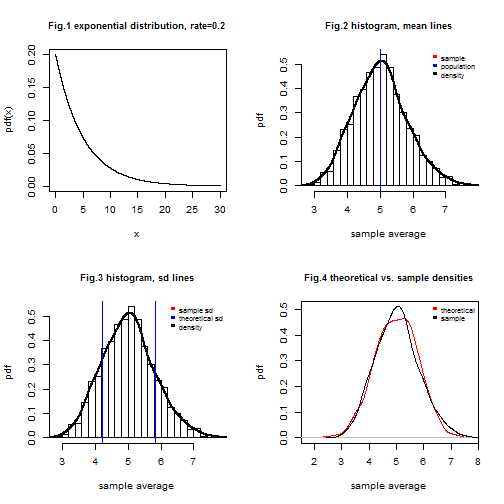
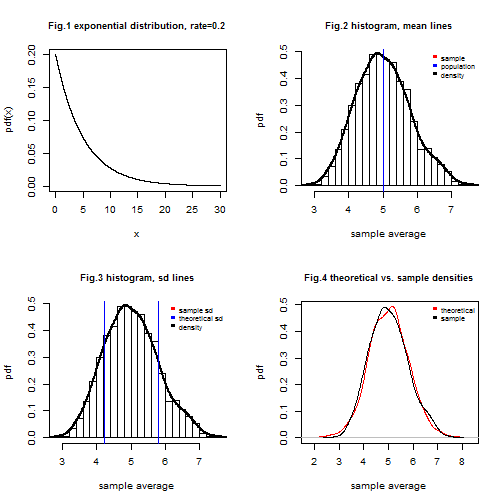
duplicate row removed in the ToothGrowth data set

diff --git a/stat_infer_project.html b/stat_infer_project.html
@@ -220,11 +220,11 @@ hr {
 
 <p>Now, the sample average distribution is to be created by sampling the exponential distribution. Each time, 40 exponentials will be sampled and the average of them will be taken to obtain a sample for the sample average distribution. A total of 1000 samplings will be carried out.</p>
 
-<p>The sample average distribution is expected to be centered around the mean of the original exponential population with a mean of \[\frac{1}{\lambda}=\frac{1}{0.2}=5\] The mean of the sample average distribution is 5.0271264 which is very close to the expected mean. This closeness can also be observed in the Fig.2. The sample average distribution mean and the exponentially distributed population mean are very near to each other, i.e. the red vertical line and the blue vertical line are almost overlapping.</p>
+<p>The sample average distribution is expected to be centered around the mean of the original exponential population with a mean of \[\frac{1}{\lambda}=\frac{1}{0.2}=5\] The mean of the sample average distribution is 5.0217322 which is very close to the expected mean. This closeness can also be observed in the Fig.2. The sample average distribution mean and the exponentially distributed population mean are very near to each other, i.e. the red vertical line and the blue vertical line are almost overlapping.</p>
 
-<p>In the Fig. 3, the points one sample standard deviation away from the sample mean are shown with red vertical lines. The points one theoretical standard deviation away from the sample mean are shown with blue vertical lines. They are almost overlapping. The closeness of the standard deviations observed in the Fig. 3 can be proven using numerical values of the variances as well. The theoretical variance of the sample average distribution is given by \[\frac{\sigma^{2}}{n}=\frac{\frac{1}{\lambda^{2}}}{n}\] The numerical value of the theoretical variance is 0.625. The variance of the sample average distribution is 0.631142. They are close to each other.</p>
+<p>In the Fig. 3, the points one sample standard deviation away from the sample mean are shown with red vertical lines. The points one theoretical standard deviation away from the sample mean are shown with blue vertical lines. They are almost overlapping. The closeness of the standard deviations observed in the Fig. 3 can be proven using numerical values of the variances as well. The theoretical variance of the sample average distribution is given by \[\frac{\sigma^{2}}{n}=\frac{\frac{1}{\lambda^{2}}}{n}\] The numerical value of the theoretical variance is 0.625. The variance of the sample average distribution is 0.6151753. They are close to each other.</p>
 
[2 lines of base64/hex data omitted]
 
 <p>The histogram and the density estimate are similar to a normal distribution. The central limit theorem states that the sample average distribution is similar to a normal distribution if the sample size is big enough. Here, the sample average distribution looks like a normal distribution to the extent permitted by the sample size being equal to 40. As the sample size increases, the sample average distribution will look like a normal distribution more and more.</p>
 
@@ -234,27 +234,27 @@ hr {
 
 <p>In this part, the ToothGrowth data in the R datasets package will be analysed. The data will be explored and summed up first. Then, the effect of supplementaries and the dose on the tooth growth will be examined using confidence intervals and hypothesis tests.</p>
 
-<p>The summary and the structure of the data set are obtained.</p>
+<p>After the duplicate rows are removed, the summary and the structure of the data set are obtained.</p>
 
 <pre><code>##       len        supp         dose      
-##  Min.   : 4.20   OJ:30   Min.   :0.500  
-##  1st Qu.:13.07   VC:30   1st Qu.:0.500  
-##  Median :19.25           Median :1.000  
-##  Mean   :18.81           Mean   :1.167  
-##  3rd Qu.:25.27           3rd Qu.:2.000  
+##  Min.   : 4.20   OJ:28   Min.   :0.500  
+##  1st Qu.:14.05   VC:27   1st Qu.:0.500  
+##  Median :20.00           Median :1.000  
+##  Mean   :19.05           Mean   :1.182  
+##  3rd Qu.:25.35           3rd Qu.:2.000  
 ##  Max.   :33.90           Max.   :2.000
 </code></pre>
 
-<pre><code>## &#39;data.frame&#39;:    60 obs. of  3 variables:
-##  $ len : num  4.2 11.5 7.3 5.8 6.4 10 11.2 11.2 5.2 7 ...
+<pre><code>## &#39;data.frame&#39;:    55 obs. of  3 variables:
+##  $ len : num  4.2 11.5 7.3 5.8 6.4 10 11.2 5.2 7 16.5 ...
 ##  $ supp: Factor w/ 2 levels &quot;OJ&quot;,&quot;VC&quot;: 2 2 2 2 2 2 2 2 2 2 ...
-##  $ dose: num  0.5 0.5 0.5 0.5 0.5 0.5 0.5 0.5 0.5 0.5 ...
+##  $ dose: num  0.5 0.5 0.5 0.5 0.5 0.5 0.5 0.5 0.5 1 ...
 </code></pre>
 
 <p>The unique dose values are 0.5, 1, 2. To have a quick overview 
 of the correlations in the data, exploratory box plots are created.</p>
 
[2 lines of base64/hex data omitted]
 
 <p>The boxplot in the Fig.5 suggests that the median tooth length for the OJ supp is 
 greater than that for the VC supp. However, the VC supp has a wider range of tooth length. The boxplot in the Fig. 6 indicates that as the dose increases, the tooth length increases too.</p>
@@ -265,16 +265,16 @@ greater than that for the VC supp. However, the VC supp has a wider range of too
 ##  Welch Two Sample t-test
 ## 
 ## data:  len_OJ and len_VC
-## t = 1.9153, df = 55.309, p-value = 0.06063
+## t = 1.781, df = 47.907, p-value = 0.08126
 ## alternative hypothesis: true difference in means is not equal to 0
 ## 95 percent confidence interval:
-##  -0.1710156  7.5710156
+##  -0.4732938  7.8103308
 ## sample estimates:
 ## mean of x mean of y 
-##  20.66333  16.96333
+##  20.85000  17.18148
 </code></pre>
 
-<p>The null hypothesis and the alternative hypothesis of the two-sided t test for the supp groups are as follows: \[H_{0}: \text{true difference in means is equal to zero.}\]  \[H_{a}: \text{true difference in means is not equal to zero.}\] The p-value of the two-sided t test is 0.0606345. This p-value is greater than 0.05. Then, the alternative hypothesis is rejected. The two-sided t test states that the mean lengths of the OJ supp group and VC supp group are not significantly different from each other. Hence, it is concluded that the supp type does not have a significant effect on the tooth length.</p>
+<p>The null hypothesis and the alternative hypothesis of the two-sided t test for the supp groups are as follows: \[H_{0}: \text{true difference in means is equal to zero.}\]  \[H_{a}: \text{true difference in means is not equal to zero.}\] The p-value of the two-sided t test is 0.0812592. This p-value is greater than 0.05. Then, the alternative hypothesis is rejected. The two-sided t test states that the mean lengths of the OJ supp group and VC supp group are not significantly different from each other. Hence, it is concluded that the supp type does not have a significant effect on the tooth length.</p>
 
 <p>Now, the effect of the dose on the tooth length is to be examined. First, dose 1.0 and dose 0.5 are to be compared to each other to determine if the mean tooth length differs between these two doses.</p>
 
@@ -282,16 +282,16 @@ greater than that for the VC supp. However, the VC supp has a wider range of too
 ##  Welch Two Sample t-test
 ## 
 ## data:  len_1 and len_05
-## t = 6.4766, df = 37.986, p-value = 6.342e-08
+## t = 6.0799, df = 33.939, p-value = 3.416e-07
 ## alternative hypothesis: true difference in means is greater than 0
 ## 95 percent confidence interval:
-##  6.753323      Inf
+##  6.805623      Inf
 ## sample estimates:
 ## mean of x mean of y 
-##    19.735    10.605
+##  20.05000  10.62222
 </code></pre>
 
-<p>The null hypothesis and the alternative hypothesis of the one-sided t test for the dose 1.0 and dose 0.5 groups are as follows: \[H_{0}: \text{true difference in means is equal to zero.}\]  \[H_{a}: \text{true difference in means is greater than zero.}\] The p-value of the two-sided t test is \(6.3415036 &times; 10<sup>-8</sup>\). This p-value is significantly smaller than 0.05. Hence, the null hypothesis is rejected. The dose 1.0 mean length is significantly greater than the dose 0.5 mean length.</p>
+<p>The null hypothesis and the alternative hypothesis of the one-sided t test for the dose 1.0 and dose 0.5 groups are as follows: \[H_{0}: \text{true difference in means is equal to zero.}\]  \[H_{a}: \text{true difference in means is greater than zero.}\] The p-value of the two-sided t test is \(3.4161029 &times; 10<sup>-7</sup>\). This p-value is significantly smaller than 0.05. Hence, the null hypothesis is rejected. The dose 1.0 mean length is significantly greater than the dose 0.5 mean length.</p>
 
 <p>Now, dose 2.0 and dose 1.0 are to be compared to each other to determine if the mean tooth length differs between these two doses.</p>
 
@@ -299,20 +299,22 @@ greater than that for the VC supp. However, the VC supp has a wider range of too
 ##  Welch Two Sample t-test
 ## 
 ## data:  len_2 and len_1
-## t = 4.9005, df = 37.101, p-value = 9.532e-06
+## t = 4.3299, df = 33.467, p-value = 6.391e-05
 ## alternative hypothesis: true difference in means is greater than 0
 ## 95 percent confidence interval:
-##  4.17387     Inf
+##  3.676641      Inf
 ## sample estimates:
 ## mean of x mean of y 
-##    26.100    19.735
+##  26.08421  20.05000
 </code></pre>
 
-<p>The null hypothesis and the alternative hypothesis of the one-sided t test for the dose 2.0 and dose 1.0 groups are as follows: \[H_{0}: \text{true difference in means is equal to zero.}\]  \[H_{a}: \text{true difference in means is greater than zero.}\] The p-value of the two-sided t test is \(9.5321476 &times; 10<sup>-6</sup>\). This p-value is significantly smaller than 0.05. Hence, the null hypothesis is rejected. The dose 2.0 mean length is significantly greater than the dose 1.0 mean length.</p>
+<p>The null hypothesis and the alternative hypothesis of the one-sided t test for the dose 2.0 and dose 1.0 groups are as follows: \[H_{0}: \text{true difference in means is equal to zero.}\]  \[H_{a}: \text{true difference in means is greater than zero.}\] The p-value of the two-sided t test is \(6.3907414 &times; 10<sup>-5</sup>\). This p-value is significantly smaller than 0.05. Hence, the null hypothesis is rejected. The dose 2.0 mean length is significantly greater than the dose 1.0 mean length.</p>
 
 <p>Hence, the t tests conclude that the dose factor has a significant effect on the tooth length. Specifically, as the dose increases, the mean tooth length increases too.</p>
 
 <h3>Appendix</h3>
+
+<p>The R code which is used to prepare this report is documented in this appendix.</p>
 
 <pre><code class="r"># x values for the pdf f(x)
 x &lt;- seq(0, 30, length.out=50000)
@@ -378,35 +380,36 @@ points(the_density, type=&quot;l&quot;, col=&quot;black&quot;)
 legend(&quot;topright&quot;, legend=c(&quot;theoretical&quot;, &quot;sample&quot;), 
        col=c(&quot;red&quot;, &quot;black&quot;), pch=15, cex = the_cex, bty=&quot;n&quot;)
 title(&quot;Fig.4 theoretical vs. sample densities&quot;, cex.main=main_cex)
-summary(ToothGrowth) # data summary
-str(ToothGrowth) # data structure
+library(dplyr) # load the package dplyr
+data_set &lt;- distinct(ToothGrowth) # remove duplicate rows
+summary(data_set) # data summary
+str(data_set) # data structure
 # boxplots for checking correlations among length, dose and supp
-with(ToothGrowth,{
+with(data_set,{
      par(mfrow=c(1,2))
      boxplot(len ~ supp, xlab=&quot;supp&quot;, ylab=&quot;length&quot;, main=&quot;Fig.5 Variation of length
              with respect to supp&quot;, cex.main=0.7)
      boxplot(len ~ dose, xlab=&quot;dose&quot;, ylab=&quot;length&quot;, main=&quot;Fig.6 Variation of length
              with respect to dose&quot;, cex.main=0.7)
      })
-library(dplyr) # load the package dplyr
 # OJ supp group is created
-group_OJ &lt;- filter(ToothGrowth, supp == &quot;OJ&quot;)
+group_OJ &lt;- filter(data_set, supp == &quot;OJ&quot;)
 # VC supp group is created
-group_VC &lt;- filter(ToothGrowth, supp == &quot;VC&quot;)
+group_VC &lt;- filter(data_set, supp == &quot;VC&quot;)
 len_OJ &lt;- group_OJ$len # OJ group lengths
 len_VC &lt;- group_VC$len # VC group lengths
 # two-sided t test is applied
 t_test_supp &lt;- t.test(len_OJ, len_VC, alternative=&quot;two.sided&quot;, paired=FALSE,
                       var.equal=FALSE)
 t_test_supp
-group_05 &lt;- filter(ToothGrowth, dose==0.5) # dose 0.5 group
-group_1 &lt;- filter(ToothGrowth, dose==1.0) # dose 1.0 group
+group_05 &lt;- filter(data_set, dose==0.5) # dose 0.5 group
+group_1 &lt;- filter(data_set, dose==1.0) # dose 1.0 group
 len_05 &lt;- group_05$len # 0.5 group lengths
 len_1 &lt;- group_1$len # 1.0 group lengths
 # one-sided t test is applied
 t_test_dose &lt;- t.test(len_1, len_05, alternative=&quot;greater&quot;, paired=FALSE, var.equal=FALSE)
 t_test_dose
-group_2 &lt;- filter(ToothGrowth, dose==2.0) # dose 2.0 group
+group_2 &lt;- filter(data_set, dose==2.0) # dose 2.0 group
 len_2 &lt;- group_2$len # 2.0 group lengths
 # one-sided t test applied
 t_test_dose2 &lt;- t.test(len_2, len_1, alternative=&quot;greater&quot;, paired=FALSE, var.equal=FALSE)

diff --git a/stat_infer_project.md b/stat_infer_project.md
@@ -18,9 +18,9 @@ Now, the sample average distribution is to be created by sampling the exponentia
 
 
 
-The sample average distribution is expected to be centered around the mean of the original exponential population with a mean of $$\frac{1}{\lambda}=\frac{1}{0.2}=5$$ The mean of the sample average distribution is 5.0271264 which is very close to the expected mean. This closeness can also be observed in the Fig.2. The sample average distribution mean and the exponentially distributed population mean are very near to each other, i.e. the red vertical line and the blue vertical line are almost overlapping.
+The sample average distribution is expected to be centered around the mean of the original exponential population with a mean of $$\frac{1}{\lambda}=\frac{1}{0.2}=5$$ The mean of the sample average distribution is 5.0217322 which is very close to the expected mean. This closeness can also be observed in the Fig.2. The sample average distribution mean and the exponentially distributed population mean are very near to each other, i.e. the red vertical line and the blue vertical line are almost overlapping.
 
-In the Fig. 3, the points one sample standard deviation away from the sample mean are shown with red vertical lines. The points one theoretical standard deviation away from the sample mean are shown with blue vertical lines. They are almost overlapping. The closeness of the standard deviations observed in the Fig. 3 can be proven using numerical values of the variances as well. The theoretical variance of the sample average distribution is given by $$\frac{\sigma^{2}}{n}=\frac{\frac{1}{\lambda^{2}}}{n}$$ The numerical value of the theoretical variance is 0.625. The variance of the sample average distribution is 0.631142. They are close to each other.
+In the Fig. 3, the points one sample standard deviation away from the sample mean are shown with red vertical lines. The points one theoretical standard deviation away from the sample mean are shown with blue vertical lines. They are almost overlapping. The closeness of the standard deviations observed in the Fig. 3 can be proven using numerical values of the variances as well. The theoretical variance of the sample average distribution is given by $$\frac{\sigma^{2}}{n}=\frac{\frac{1}{\lambda^{2}}}{n}$$ The numerical value of the theoretical variance is 0.625. The variance of the sample average distribution is 0.6151753. They are close to each other.
 
 ![plot of chunk sample_avg_histogram_mean](figure/sample_avg_histogram_mean-1.png)
 
@@ -31,24 +31,24 @@ In the Fig.4, the similarity between the theoretical probability density functio
 ### Basic Inferential Data Analysis
 In this part, the ToothGrowth data in the R datasets package will be analysed. The data will be explored and summed up first. Then, the effect of supplementaries and the dose on the tooth growth will be examined using confidence intervals and hypothesis tests.
 
-The summary and the structure of the data set are obtained.
+After the duplicate rows are removed, the summary and the structure of the data set are obtained.
 
 
 ```
 ##       len        supp         dose      
-##  Min.   : 4.20   OJ:30   Min.   :0.500  
-##  1st Qu.:13.07   VC:30   1st Qu.:0.500  
-##  Median :19.25           Median :1.000  
-##  Mean   :18.81           Mean   :1.167  
-##  3rd Qu.:25.27           3rd Qu.:2.000  
+##  Min.   : 4.20   OJ:28   Min.   :0.500  
+##  1st Qu.:14.05   VC:27   1st Qu.:0.500  
+##  Median :20.00           Median :1.000  
+##  Mean   :19.05           Mean   :1.182  
+##  3rd Qu.:25.35           3rd Qu.:2.000  
 ##  Max.   :33.90           Max.   :2.000
 ```
 
 ```
-## 'data.frame':	60 obs. of  3 variables:
-##  $ len : num  4.2 11.5 7.3 5.8 6.4 10 11.2 11.2 5.2 7 ...
+## 'data.frame':	55 obs. of  3 variables:
+##  $ len : num  4.2 11.5 7.3 5.8 6.4 10 11.2 5.2 7 16.5 ...
 ##  $ supp: Factor w/ 2 levels "OJ","VC": 2 2 2 2 2 2 2 2 2 2 ...
-##  $ dose: num  0.5 0.5 0.5 0.5 0.5 0.5 0.5 0.5 0.5 0.5 ...
+##  $ dose: num  0.5 0.5 0.5 0.5 0.5 0.5 0.5 0.5 0.5 1 ...
 ```
 
 The unique dose values are 0.5, 1, 2. To have a quick overview 
@@ -67,16 +67,16 @@ Now, these exploratory observations will be checked using hypothesis testing. It
 ## 	Welch Two Sample t-test
 ## 
 ## data:  len_OJ and len_VC
-## t = 1.9153, df = 55.309, p-value = 0.06063
+## t = 1.781, df = 47.907, p-value = 0.08126
 ## alternative hypothesis: true difference in means is not equal to 0
 ## 95 percent confidence interval:
-##  -0.1710156  7.5710156
+##  -0.4732938  7.8103308
 ## sample estimates:
 ## mean of x mean of y 
-##  20.66333  16.96333
+##  20.85000  17.18148
 ```
 
-The null hypothesis and the alternative hypothesis of the two-sided t test for the supp groups are as follows: $$H_{0}: \text{true difference in means is equal to zero.}$$  $$H_{a}: \text{true difference in means is not equal to zero.}$$ The p-value of the two-sided t test is 0.0606345. This p-value is greater than 0.05. Then, the alternative hypothesis is rejected. The two-sided t test states that the mean lengths of the OJ supp group and VC supp group are not significantly different from each other. Hence, it is concluded that the supp type does not have a significant effect on the tooth length.
+The null hypothesis and the alternative hypothesis of the two-sided t test for the supp groups are as follows: $$H_{0}: \text{true difference in means is equal to zero.}$$  $$H_{a}: \text{true difference in means is not equal to zero.}$$ The p-value of the two-sided t test is 0.0812592. This p-value is greater than 0.05. Then, the alternative hypothesis is rejected. The two-sided t test states that the mean lengths of the OJ supp group and VC supp group are not significantly different from each other. Hence, it is concluded that the supp type does not have a significant effect on the tooth length.
 
 Now, the effect of the dose on the tooth length is to be examined. First, dose 1.0 and dose 0.5 are to be compared to each other to determine if the mean tooth length differs between these two doses.
 
@@ -86,16 +86,16 @@ Now, the effect of the dose on the tooth length is to be examined. First, dose 1
 ## 	Welch Two Sample t-test
 ## 
 ## data:  len_1 and len_05
-## t = 6.4766, df = 37.986, p-value = 6.342e-08
+## t = 6.0799, df = 33.939, p-value = 3.416e-07
 ## alternative hypothesis: true difference in means is greater than 0
 ## 95 percent confidence interval:
-##  6.753323      Inf
+##  6.805623      Inf
 ## sample estimates:
 ## mean of x mean of y 
-##    19.735    10.605
+##  20.05000  10.62222
 ```
 
-The null hypothesis and the alternative hypothesis of the one-sided t test for the dose 1.0 and dose 0.5 groups are as follows: $$H_{0}: \text{true difference in means is equal to zero.}$$  $$H_{a}: \text{true difference in means is greater than zero.}$$ The p-value of the two-sided t test is $6.3415036 &times; 10<sup>-8</sup>$. This p-value is significantly smaller than 0.05. Hence, the null hypothesis is rejected. The dose 1.0 mean length is significantly greater than the dose 0.5 mean length.
+The null hypothesis and the alternative hypothesis of the one-sided t test for the dose 1.0 and dose 0.5 groups are as follows: $$H_{0}: \text{true difference in means is equal to zero.}$$  $$H_{a}: \text{true difference in means is greater than zero.}$$ The p-value of the two-sided t test is $3.4161029 &times; 10<sup>-7</sup>$. This p-value is significantly smaller than 0.05. Hence, the null hypothesis is rejected. The dose 1.0 mean length is significantly greater than the dose 0.5 mean length.
 
 Now, dose 2.0 and dose 1.0 are to be compared to each other to determine if the mean tooth length differs between these two doses.
 
@@ -105,20 +105,23 @@ Now, dose 2.0 and dose 1.0 are to be compared to each other to determine if the 
 ## 	Welch Two Sample t-test
 ## 
 ## data:  len_2 and len_1
-## t = 4.9005, df = 37.101, p-value = 9.532e-06
+## t = 4.3299, df = 33.467, p-value = 6.391e-05
 ## alternative hypothesis: true difference in means is greater than 0
 ## 95 percent confidence interval:
-##  4.17387     Inf
+##  3.676641      Inf
 ## sample estimates:
 ## mean of x mean of y 
-##    26.100    19.735
+##  26.08421  20.05000
 ```
 
-The null hypothesis and the alternative hypothesis of the one-sided t test for the dose 2.0 and dose 1.0 groups are as follows: $$H_{0}: \text{true difference in means is equal to zero.}$$  $$H_{a}: \text{true difference in means is greater than zero.}$$ The p-value of the two-sided t test is $9.5321476 &times; 10<sup>-6</sup>$. This p-value is significantly smaller than 0.05. Hence, the null hypothesis is rejected. The dose 2.0 mean length is significantly greater than the dose 1.0 mean length.
+The null hypothesis and the alternative hypothesis of the one-sided t test for the dose 2.0 and dose 1.0 groups are as follows: $$H_{0}: \text{true difference in means is equal to zero.}$$  $$H_{a}: \text{true difference in means is greater than zero.}$$ The p-value of the two-sided t test is $6.3907414 &times; 10<sup>-5</sup>$. This p-value is significantly smaller than 0.05. Hence, the null hypothesis is rejected. The dose 2.0 mean length is significantly greater than the dose 1.0 mean length.
 
 Hence, the t tests conclude that the dose factor has a significant effect on the tooth length. Specifically, as the dose increases, the mean tooth length increases too.
 
 ### Appendix
+
+The R code which is used to prepare this report is documented in this appendix.
+
 
 ```r
 # x values for the pdf f(x)
@@ -185,35 +188,36 @@ points(the_density, type="l", col="black")
 legend("topright", legend=c("theoretical", "sample"), 
        col=c("red", "black"), pch=15, cex = the_cex, bty="n")
 title("Fig.4 theoretical vs. sample densities", cex.main=main_cex)
-summary(ToothGrowth) # data summary
-str(ToothGrowth) # data structure
+library(dplyr) # load the package dplyr
+data_set <- distinct(ToothGrowth) # remove duplicate rows
+summary(data_set) # data summary
+str(data_set) # data structure
 # boxplots for checking correlations among length, dose and supp
-with(ToothGrowth,{
+with(data_set,{
      par(mfrow=c(1,2))
      boxplot(len ~ supp, xlab="supp", ylab="length", main="Fig.5 Variation of length
              with respect to supp", cex.main=0.7)
      boxplot(len ~ dose, xlab="dose", ylab="length", main="Fig.6 Variation of length
              with respect to dose", cex.main=0.7)
      })
-library(dplyr) # load the package dplyr
 # OJ supp group is created
-group_OJ <- filter(ToothGrowth, supp == "OJ")
+group_OJ <- filter(data_set, supp == "OJ")
 # VC supp group is created
-group_VC <- filter(ToothGrowth, supp == "VC")
+group_VC <- filter(data_set, supp == "VC")
 len_OJ <- group_OJ$len # OJ group lengths
 len_VC <- group_VC$len # VC group lengths
 # two-sided t test is applied
 t_test_supp <- t.test(len_OJ, len_VC, alternative="two.sided", paired=FALSE,
                       var.equal=FALSE)
 t_test_supp
-group_05 <- filter(ToothGrowth, dose==0.5) # dose 0.5 group
-group_1 <- filter(ToothGrowth, dose==1.0) # dose 1.0 group
+group_05 <- filter(data_set, dose==0.5) # dose 0.5 group
+group_1 <- filter(data_set, dose==1.0) # dose 1.0 group
 len_05 <- group_05$len # 0.5 group lengths
 len_1 <- group_1$len # 1.0 group lengths
 # one-sided t test is applied
 t_test_dose <- t.test(len_1, len_05, alternative="greater", paired=FALSE, var.equal=FALSE)
 t_test_dose
-group_2 <- filter(ToothGrowth, dose==2.0) # dose 2.0 group
+group_2 <- filter(data_set, dose==2.0) # dose 2.0 group
 len_2 <- group_2$len # 2.0 group lengths
 # one-sided t test applied
 t_test_dose2 <- t.test(len_2, len_1, alternative="greater", paired=FALSE, var.equal=FALSE)
